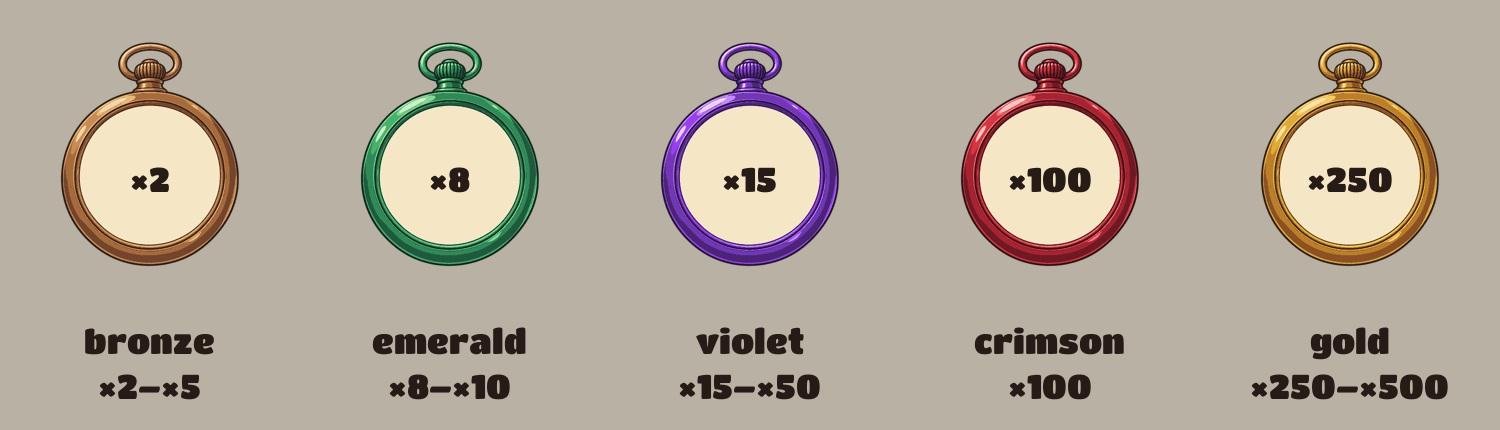
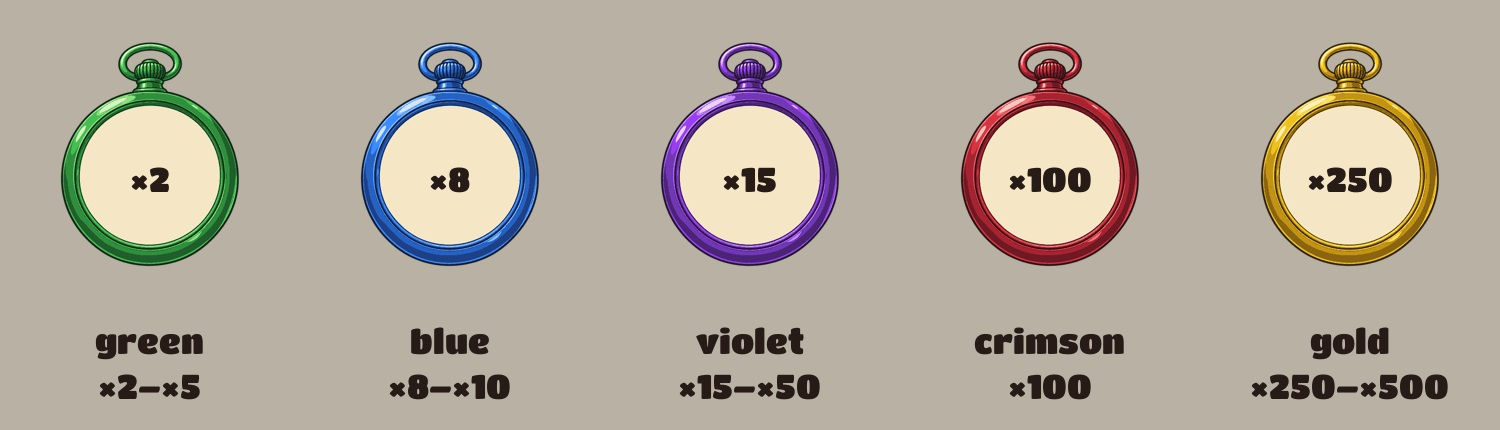
Hypno Monkey: watch tiers on one hue each, blank watches silver until struck
Bronze and gold read alike, so the five bands now walk the hue wheel like the
ATG 戰神賽特 orbs: green x2-5, blue x8-10, violet x15-50, crimson x100, yellow
gold x250-500 (build_tiers.py recolour). Halo stronger and the value outline
takes the tier colour. An unrevealed watch uses the silver case so the colour
does not give the value away before the beam.

diff --git a/apps/HypnoMonkey/src/components/MedusaThrow.svelte b/apps/HypnoMonkey/src/components/MedusaThrow.svelte
@@ -125,6 +125,8 @@
 	const DUD_TINT = 0xa79cbc;
 	// a blank watch before its value is struck in: a plain cream dial
 	const BLANK_DIAL = 0xe8dcc0;
+	// and a plain silver case, so the tier colour is not given away before the beam
+	const BLANK_WATCH = 'mgOrbPurple';
 	let heavy = $state<{ x: number; y: number; bolt: number; ring: number; flash: number; dim: number; color: number; seed: number } | null>(null);
 	let fx=$state.raw<MultiplierFxController>();
 	let reducedMotion=$state(false);
@@ -642,14 +644,14 @@
 				<Sprite
 					key="fxGlow"
 					anchor={0.5}
-					width={WATCH_SIZE * (orb.value >= HEAVY ? 2.1 : 1.75)}
-					height={WATCH_SIZE * (orb.value >= HEAVY ? 2.1 : 1.75)}
+					width={WATCH_SIZE * (orb.value >= HEAVY ? 2.2 : 1.95)}
+					height={WATCH_SIZE * (orb.value >= HEAVY ? 2.2 : 1.95)}
 					tint={orbColor(orb.value)}
-					alpha={(orb.value >= HEAVY ? 0.9 : 0.6) * (orb.reveal ?? 1)}
+					alpha={(orb.value >= HEAVY ? 0.95 : 0.85) * (orb.reveal ?? 1)}
 				/>
 			{/if}
 			<Sprite
-				key={orbKeyFor(orb.value)}
+				key={(orb.reveal ?? 1) < 0.5 ? BLANK_WATCH : orbKeyFor(orb.value)}
 				anchor={{x:0.5,y:300/512}}
 				width={WATCH_SIZE}
 				height={WATCH_SIZE}
@@ -678,7 +680,8 @@
 					fontWeight: GAME_FONT_WEIGHT,
 					fontSize: numberSize(orb.value),
 					fill: orb.value >= HEAVY ? 0xffe066 : 0xffcf3a,
-					stroke: { color: 0x4a2205, width: 5 },
+					// the outline carries the tier colour too, dark enough to hold the gold
+					stroke: { color: orb.stone > 0 ? 0x4a2205 : shade(orbColor(orb.value), 0.32), width: 5 },
 					dropShadow: { color: 0x2a1206, alpha: 0.85, angle: Math.PI / 2, distance: 3, blur: 0 },
 				}}
 			/>

diff --git a/apps/HypnoMonkey/src/game/multiplierPerformance.ts b/apps/HypnoMonkey/src/game/multiplierPerformance.ts
@@ -8,8 +8,9 @@ export function gazePose(progress:number){
  const t=clamp(progress),attack=clamp(t/.11),release=1-clamp((t-.68)/.32);
  return{intensity:Math.min(attack,release),reach:1-(1-clamp(t/.26))**3,focus:(1-clamp(t/.28))**2,stone:clamp((t-.17)/.55)};
 }
-/** FX colour per watch tier (constants.watchTier): bronze, emerald, violet, crimson, gold. */
-export const orbColor=(value:number)=>value>=250?0xffcc55:value>=100?0xff4a52:value>=15?0xb46bff:value>=8?0x4fd17c:0xd9935a;
+/** FX colour per watch tier (constants.watchTier): green, blue, violet, crimson, gold — one hue
+ * each so the bands read apart at a glance (Stone 11-03, ATG 戰神賽特 orbs). */
+export const orbColor=(value:number)=>value>=250?0xffd23a:value>=100?0xff3a44:value>=15?0xb05cff:value>=8?0x3a8cff:0x45bf52;
 export function flightPose(from:Point,to:Point,progress:number){
  const t=clamp(progress),u=t*t*(2-t),dx=to.x-from.x,dy=to.y-from.y;
  const lift=Math.min(122,Math.abs(dx)*.105+26),a={x:from.x+dx*.25,y:from.y+dy*.22-lift},b={x:to.x-dx*.20,y:to.y-dy*.12-lift*.68};

diff --git a/apps/HypnoMonkey/src/game/constants.ts b/apps/HypnoMonkey/src/game/constants.ts
@@ -218,7 +218,7 @@ export const ROUND_END_HOLD_MS_FAST = 300;
 // spin.
 // ---------------------------------------------------------------------------
 
-/** Pocket watch tier, one metal per band: bronze 2–5, emerald 8–10, violet 15–50, crimson 100, gold 250+. */
+/** Pocket watch tier, one metal per band: green 2–5, blue 8–10, violet 15–50, crimson 100, gold 250+. */
 export const watchTier = (value: number) => (value >= 250 ? 5 : value >= 100 ? 4 : value >= 15 ? 3 : value >= 8 ? 2 : 1);
 export const orbKeyFor = (value: number) => `watchT${watchTier(value)}` as const;
 

diff --git a/apps/HypnoMonkey/src/game/assets.ts b/apps/HypnoMonkey/src/game/assets.ts
@@ -196,7 +196,7 @@ export default {
 	},
 
 	// Five watch tiers drawn on the board, one metal colour per multiplier band
-	// (design/watch_art/build_tiers.py): bronze, emerald, violet, crimson, gold.
+	// (design/watch_art/build_tiers.py): green, blue, violet, crimson, gold.
 	watchT1: {
 		type: 'sprite',
 		src: new URL('../../assets/sprites/hypnoWatches/watch-t1.png', import.meta.url).href,

diff --git a/apps/HypnoMonkey/design/watch_art/build_tiers.py b/apps/HypnoMonkey/design/watch_art/build_tiers.py
@@ -1,7 +1,10 @@
 """Five watch tiers, one metal colour per multiplier band (Stone, 2026-10-28).
 
-Same registration and six-band recolour as build.py, more bands:
-  t1 bronze  x2-x5      t2 emerald x8-x10    t3 violet x15-x50
+Same registration and six-band recolour as build.py, more bands. 11-03 Stone
+wanted the tiers told apart at a glance: bronze sat too close to gold, so the
+bands now walk the hue wheel like ATG 戰神賽特's orbs (green, blue, purple, red)
+with a bright yellow gold on top:
+  t1 green  x2-x5       t2 blue    x8-x10    t3 violet x15-x50
   t4 crimson x100       t5 gold    x250-x500
 The cream dial stays cream so the dark value reads on every tier.
 
@@ -26,11 +29,11 @@ base.alpha_composite(small, (round(256 - center[0] * scale), round(300 - center[
 
 DIAL = '#f6e7c7'
 TIERS = {
-    't1': ('bronze', '2-5', ['#261b17', '#74442c', '#a76a3a', '#c98c52', '#e9b879', '#f3d6a5']),
-    't2': ('emerald', '8-10', ['#10201a', '#1f5a3d', '#2f8a57', '#46b26d', '#86d897', '#c9f0c6']),
+    't1': ('green', '2-5', ['#0f2214', '#1f5e2a', '#2e8f3c', '#45bf52', '#8ee07f', '#d3f5c4']),
+    't2': ('blue', '8-10', ['#0e1830', '#1c3f86', '#2462c4', '#3a8cff', '#86bcff', '#d2e6ff']),
     't3': ('violet', '15-50', ['#1d1328', '#4b2378', '#7136b5', '#9b3df5', '#c48bff', '#e8d3ff']),
     't4': ('crimson', '100', ['#250f12', '#6e1822', '#a82230', '#d9343f', '#f2747a', '#ffc4c2']),
-    't5': ('gold', '250-500', ['#281c16', '#8b5124', '#bd7f27', '#e1aa35', '#f6cc65', '#ffe4a0']),
+    't5': ('gold', '250-500', ['#2a1f0c', '#8a6410', '#c49312', '#f0c21e', '#ffe066', '#fff3b8']),
 }
 
 for key, (_, _, colors) in TIERS.items():
